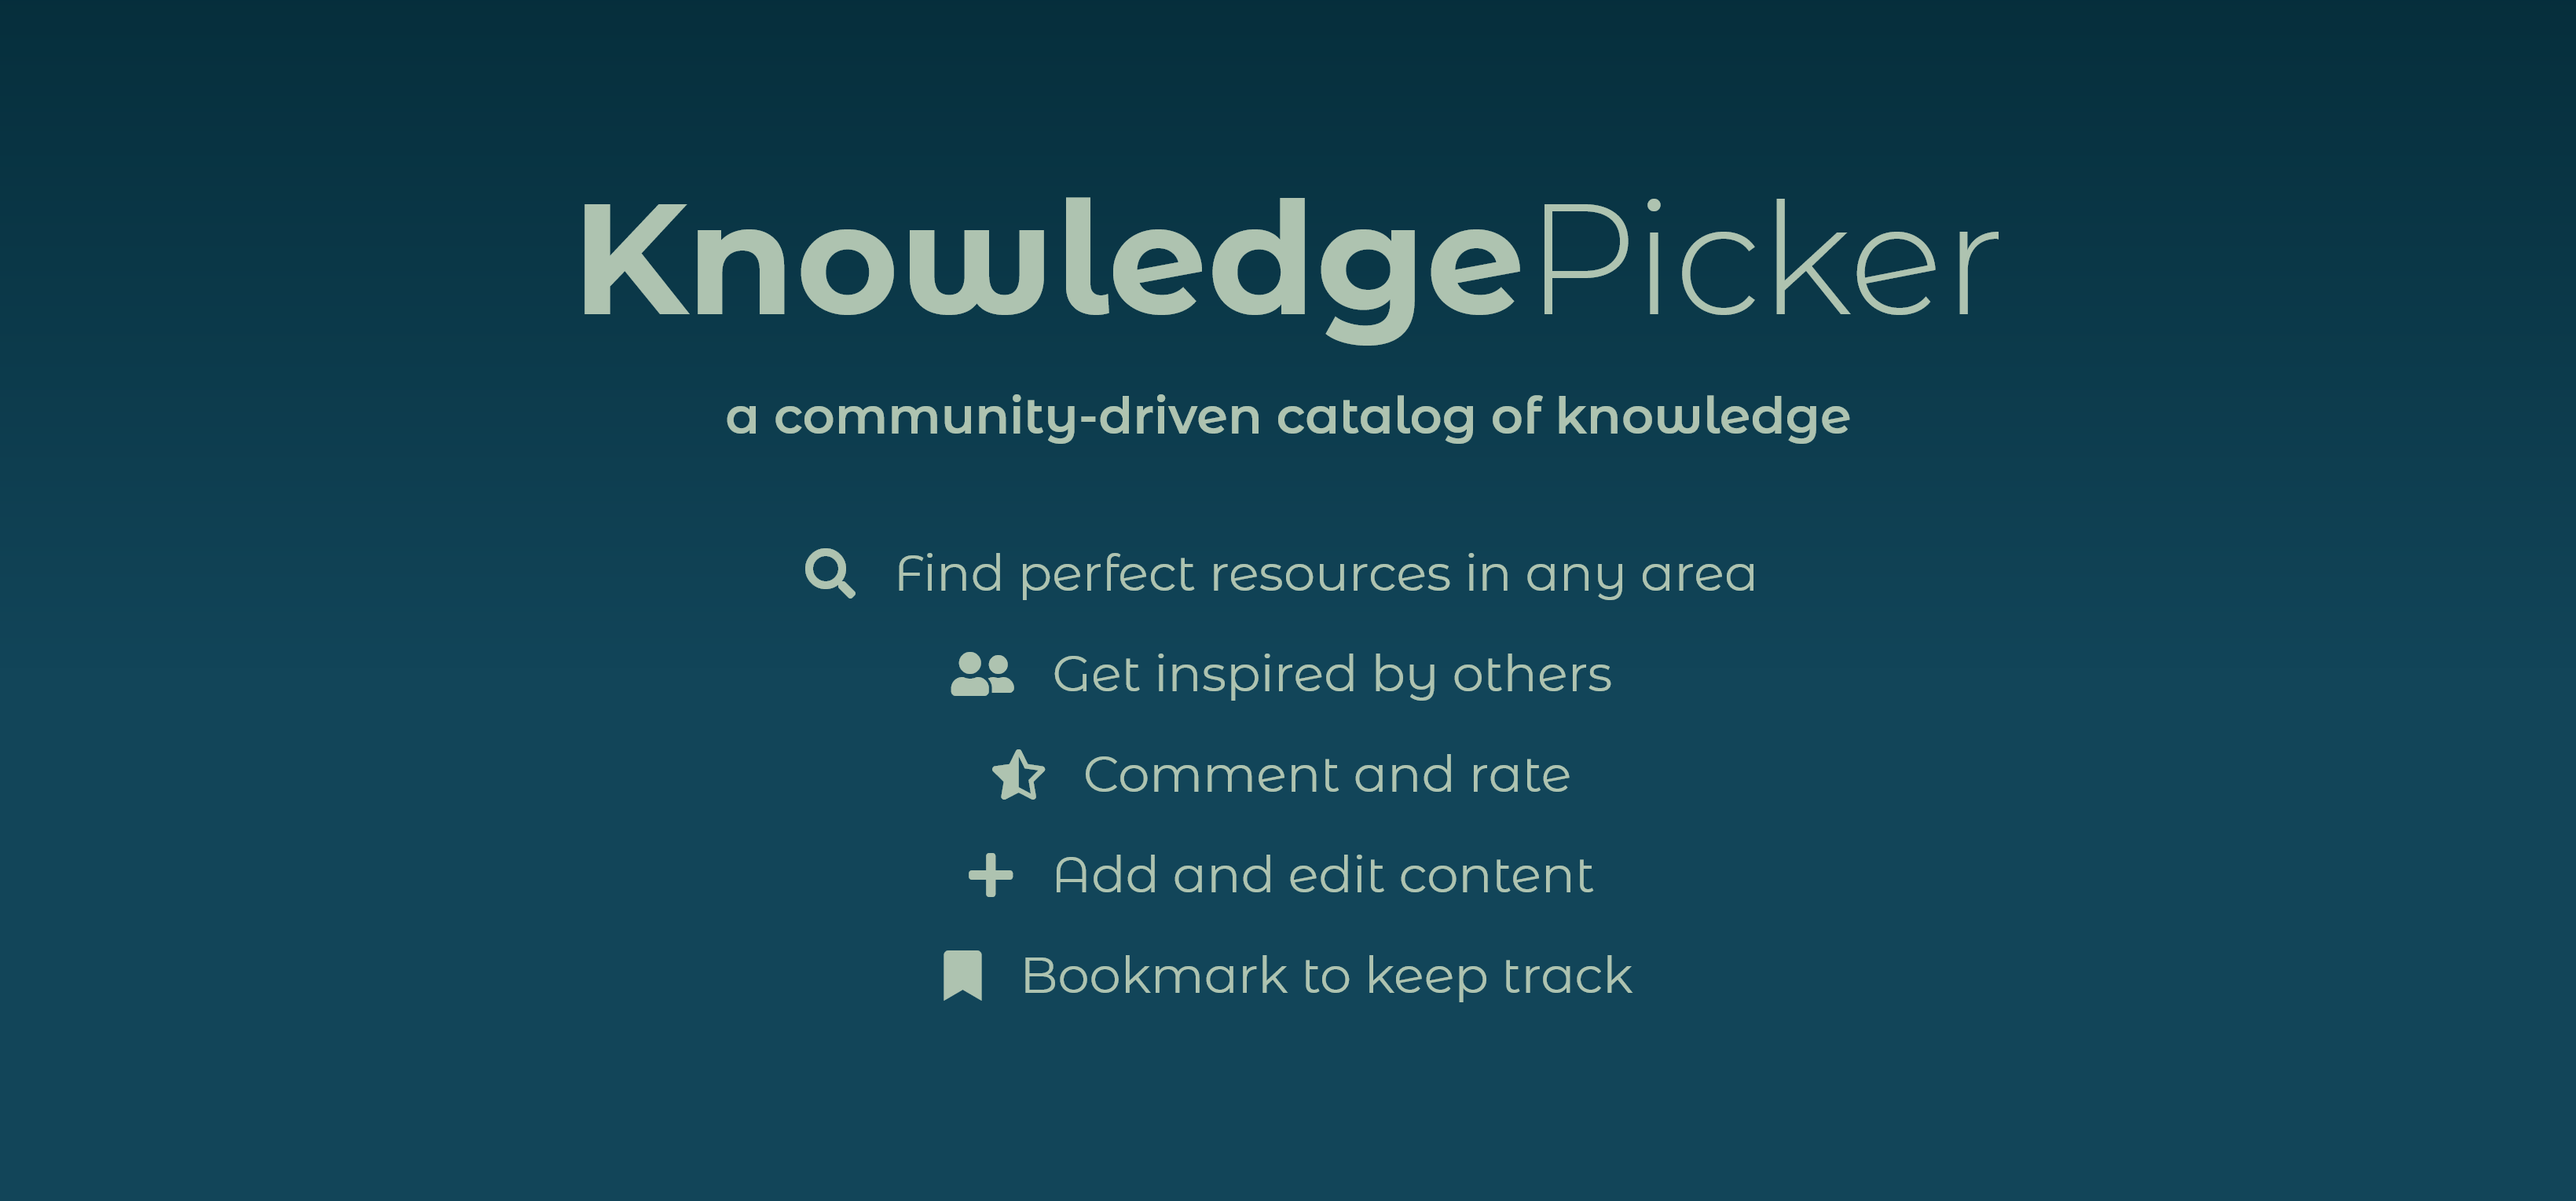
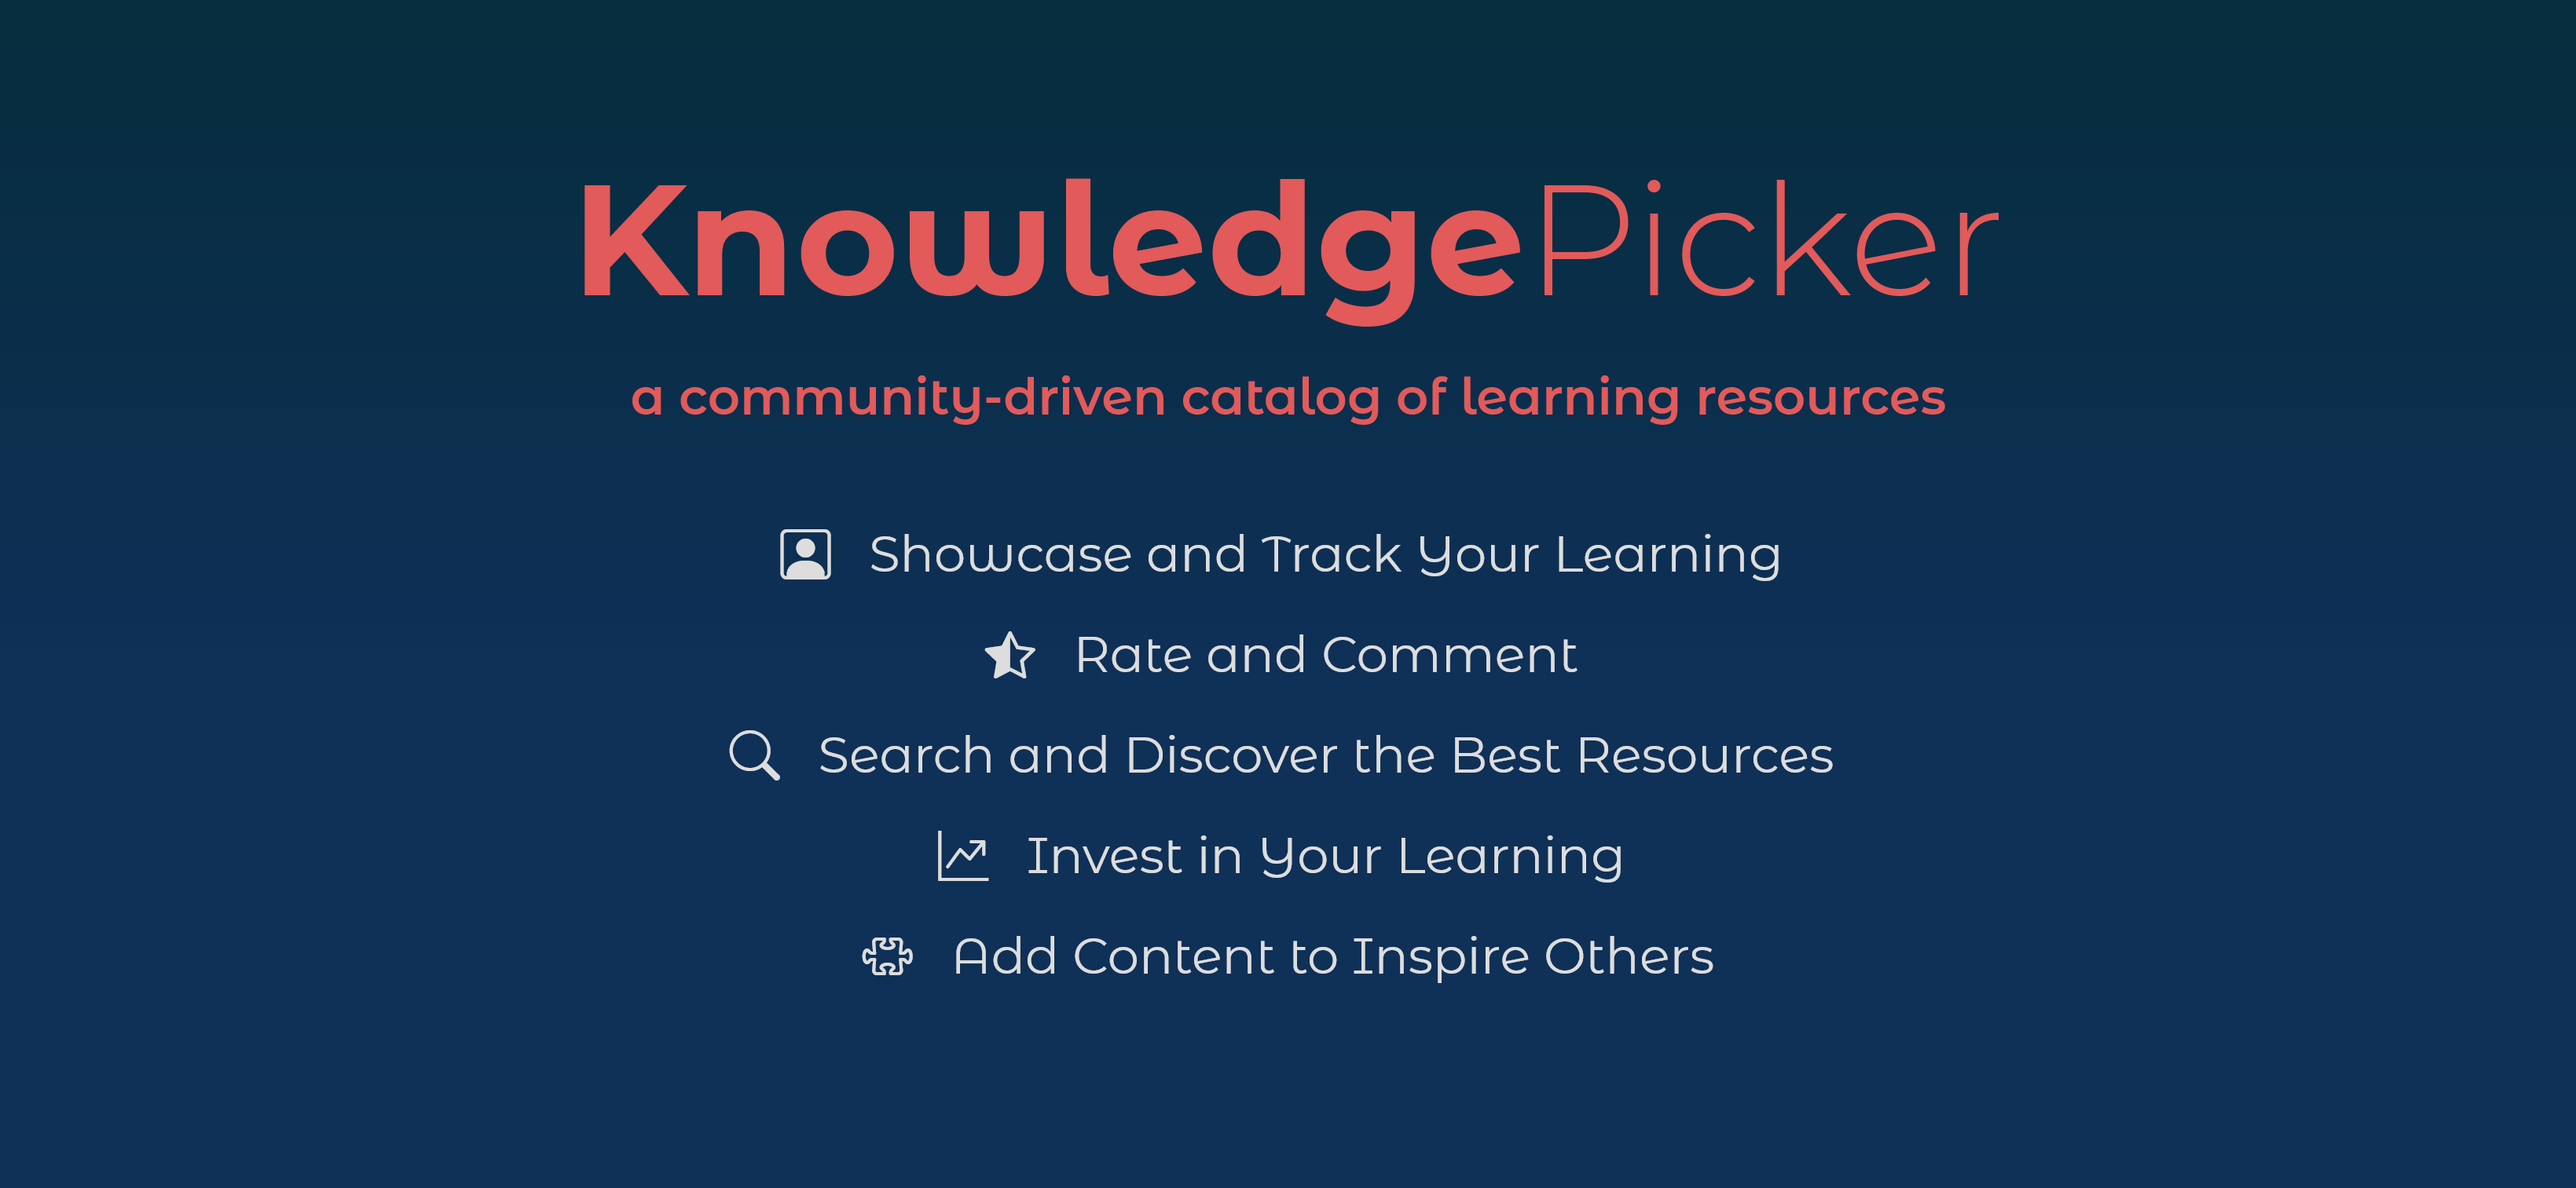
Update KnowledgePicker branding

diff --git a/content/projects/knowledgepicker/_index.md b/content/projects/knowledgepicker/_index.md
@@ -9,5 +9,5 @@ disableReadingTime: true
 comments: false
 ---
 
-KnowledgePicker is a community-driven catalog of knowledge. It's awesome.
+KnowledgePicker is a community-driven catalog of learning resources. It's awesome.
 [Check it out](https://knowledgepicker.com).
